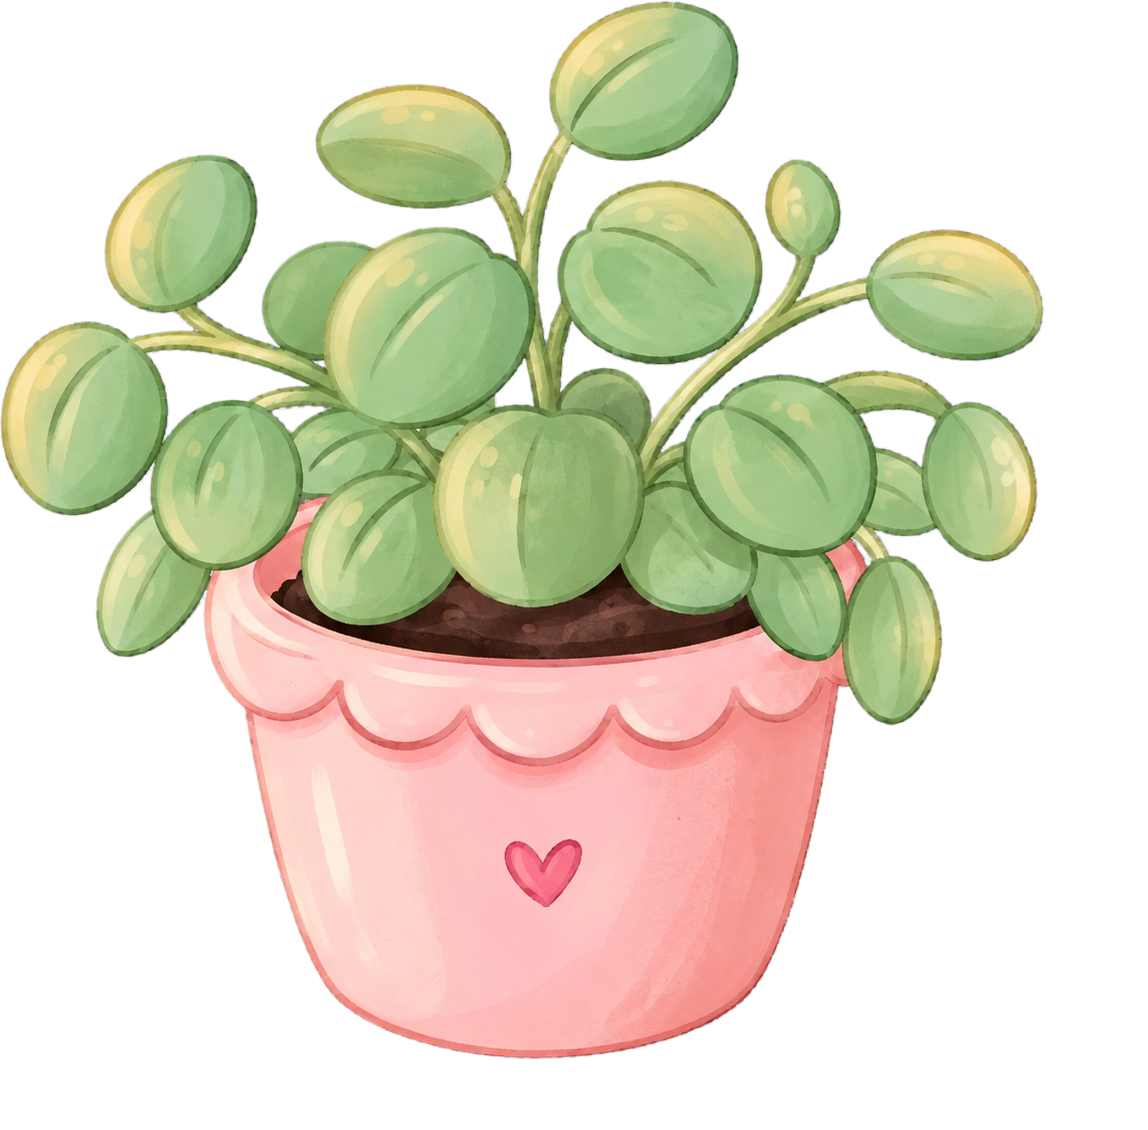
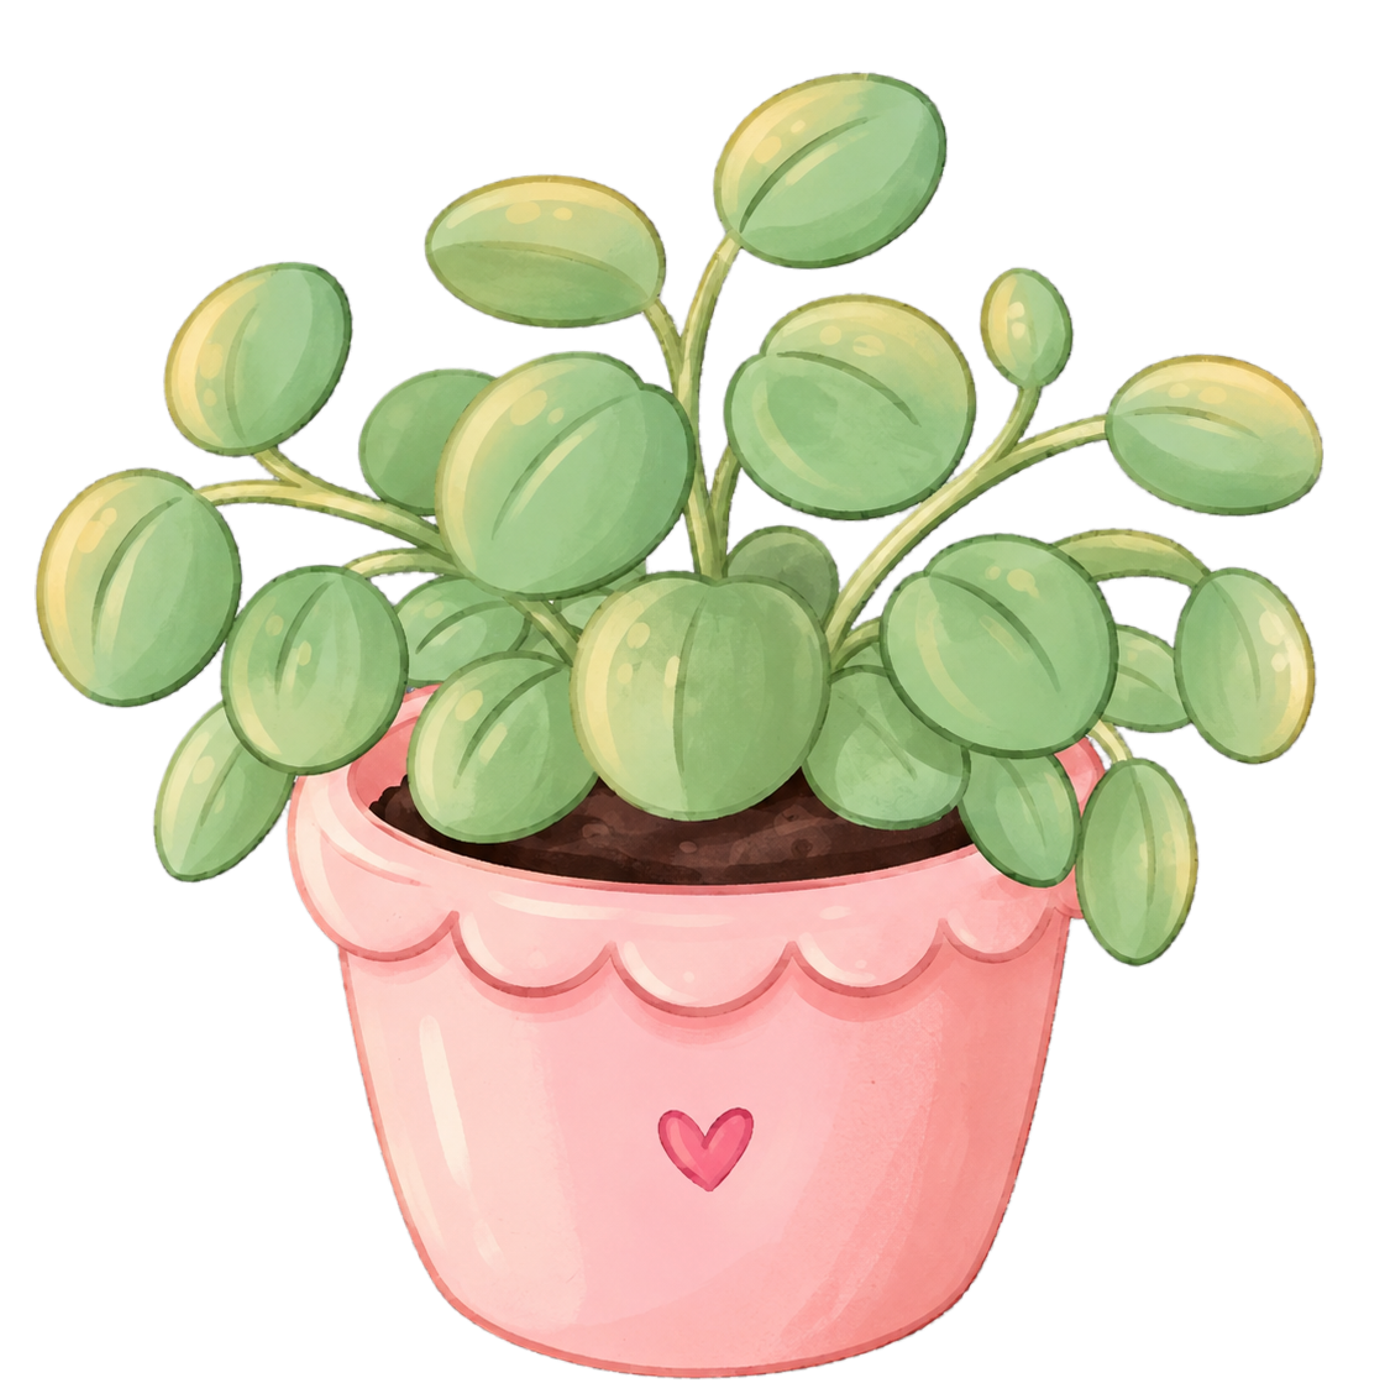
fix: normalize plant assets onto canonical 1400x1400 baseline and anchor pot to desk tabletop

diff --git a/src/components/scene/StudioDeskPlant.tsx b/src/components/scene/StudioDeskPlant.tsx
@@ -59,10 +59,10 @@ export default function StudioDeskPlant() {
     setIsWatering(true);
     soundscape.playClickSound();
 
-    // Spawn 5 sequential falling droplets
+    // Spawn 5 sequential falling droplets targeted at pot soil
     const newDroplets: Droplet[] = Array.from({ length: 5 }, (_, i) => ({
       id: Date.now() + i,
-      x: -10 + i * 5, // spread across pot
+      x: -8 + i * 4, // spread nicely across the pot soil
       delay: i * 0.12,
     }));
     setDroplets(newDroplets);
@@ -89,7 +89,7 @@ export default function StudioDeskPlant() {
         setShowSparkles(true);
         setTimeout(() => setShowSparkles(false), 2400);
       } else {
-        // Stage 2: fully bloomed, just a refreshing sprinkle with sparkles
+        // Stage 2: fully bloomed, refreshing sprinkle with sparkles
         setShowSparkles(true);
         setTimeout(() => setShowSparkles(false), 1600);
       }
@@ -141,10 +141,10 @@ export default function StudioDeskPlant() {
     <div
       className="absolute pointer-events-auto select-none"
       style={{
-        left: '67.2%',
-        top: '44.8%',
-        width: '6.4%',
-        aspectRatio: '1 / 1.3',
+        left: '63.8%',
+        bottom: '48.2%',
+        width: '13.2%',
+        aspectRatio: '1 / 1',
         zIndex: 15,
       }}
       onMouseEnter={() => setIsHovered(true)}
@@ -170,7 +170,7 @@ export default function StudioDeskPlant() {
               exit={{ opacity: 0, y: 4, scale: 0.9 }}
               transition={{ duration: 0.18 }}
               className={`pointer-events-none absolute left-1/2 -translate-x-1/2 z-30 whitespace-nowrap ${
-                stage === 0 ? 'top-[32%] sm:top-[30%]' : '-top-10 sm:-top-12'
+                stage === 0 ? 'bottom-[74%]' : 'bottom-[102%]'
               }`}
             >
               <div className="relative rounded-full border border-pink-300 bg-white/95 px-2.5 py-1 text-[10px] sm:text-xs font-mono font-bold text-accent shadow-md backdrop-blur-xs dark:border-pink-500/50 dark:bg-[#2A1828]/95 dark:text-pink-200">
@@ -202,24 +202,24 @@ export default function StudioDeskPlant() {
         <AnimatePresence>
           {isWatering && (
             <motion.div
-              initial={{ opacity: 0, x: 25, y: -25, rotate: 0, scale: 0.8 }}
+              initial={{ opacity: 0, x: 30, y: -20, rotate: 0, scale: 0.8 }}
               animate={{
                 opacity: 1,
-                x: stage === 0 ? 5 : 8,
-                y: stage === 0 ? -14 : -32,
+                x: 10,
+                y: -10,
                 rotate: -24,
-                scale: stage === 0 ? 0.85 : 1,
+                scale: 0.95,
               }}
-              exit={{ opacity: 0, x: 20, y: -20, rotate: 0, scale: 0.8 }}
+              exit={{ opacity: 0, x: 25, y: -15, rotate: 0, scale: 0.8 }}
               transition={{ duration: 0.35, ease: 'easeOut' }}
-              className="pointer-events-none absolute -top-10 left-3 z-30 w-12 sm:w-16 md:w-20"
+              className="pointer-events-none absolute top-[30%] -right-[15%] z-30 w-14 sm:w-18 md:w-22"
               style={{ filter: 'drop-shadow(0 4px 6px rgba(0,0,0,0.15))' }}
             >
               <Image
                 src="/assets/objects/studio-watering-can.png"
                 alt="Pastel watering can"
-                width={120}
-                height={120}
+                width={140}
+                height={140}
                 className="h-auto w-full object-contain"
                 priority
               />
@@ -236,13 +236,13 @@ export default function StudioDeskPlant() {
                   key={drop.id}
                   initial={{
                     opacity: 0,
-                    y: stage === 0 ? -12 : -28,
-                    x: stage === 0 ? drop.x * 0.6 : drop.x,
+                    y: 5,
+                    x: drop.x,
                     scale: 0.6,
                   }}
                   animate={{
                     opacity: [0, 1, 1, 0],
-                    y: stage === 0 ? [-12, 16] : [-28, 5],
+                    y: [5, 45],
                     scale: [0.6, 1, 1, 0.4],
                   }}
                   transition={{
@@ -263,7 +263,7 @@ export default function StudioDeskPlant() {
         {/* --- 4. SPARKLES / CELEBRATION BURST --- */}
         <AnimatePresence>
           {showSparkles && (
-            <div className="pointer-events-none absolute -top-8 inset-x-0 z-25 flex items-center justify-center">
+            <div className="pointer-events-none absolute top-[35%] inset-x-0 z-25 flex items-center justify-center">
               {[-16, -6, 8, 18].map((offset, idx) => (
                 <motion.span
                   key={idx}
@@ -290,8 +290,8 @@ export default function StudioDeskPlant() {
           animate={
             isWatering
               ? {
-                  scale: [1, 1.08, 0.98, 1],
-                  rotate: [0, -1.5, 1.5, 0],
+                  scale: [1, 1.06, 0.98, 1],
+                  rotate: [0, -1.2, 1.2, 0],
                 }
               : {
                   scale: 1,
@@ -301,23 +301,21 @@ export default function StudioDeskPlant() {
           transition={{ duration: 0.45 }}
           className="relative h-full w-full flex items-end justify-center filter drop-shadow-sm transition-transform duration-200 hover:scale-105"
         >
-          {/* Cross-fading Plant Asset Image */}
+          {/* Cross-fading Plant Asset Image (1400x1400 unified baseline canvas) */}
           <AnimatePresence mode="wait">
             <motion.div
               key={stage}
-              initial={{ opacity: 0, scale: 0.9 }}
+              initial={{ opacity: 0, scale: 0.92 }}
               animate={{ opacity: 1, scale: 1 }}
-              exit={{ opacity: 0, scale: 0.95 }}
-              transition={{ duration: 0.4 }}
-              className={`relative flex items-end justify-center ${
-                stage === 0 ? 'h-[53%] w-[50%] mb-0' : 'h-full w-full'
-              }`}
+              exit={{ opacity: 0, scale: 0.96 }}
+              transition={{ duration: 0.35 }}
+              className="relative h-full w-full flex items-end justify-center"
             >
               <Image
                 src={getPlantAsset()}
                 alt={`Studio desk plant at stage ${stage + 1}`}
-                width={stage === 0 ? 120 : 200}
-                height={stage === 0 ? 150 : 260}
+                width={350}
+                height={350}
                 className="h-full w-full object-contain object-bottom"
                 priority
               />
